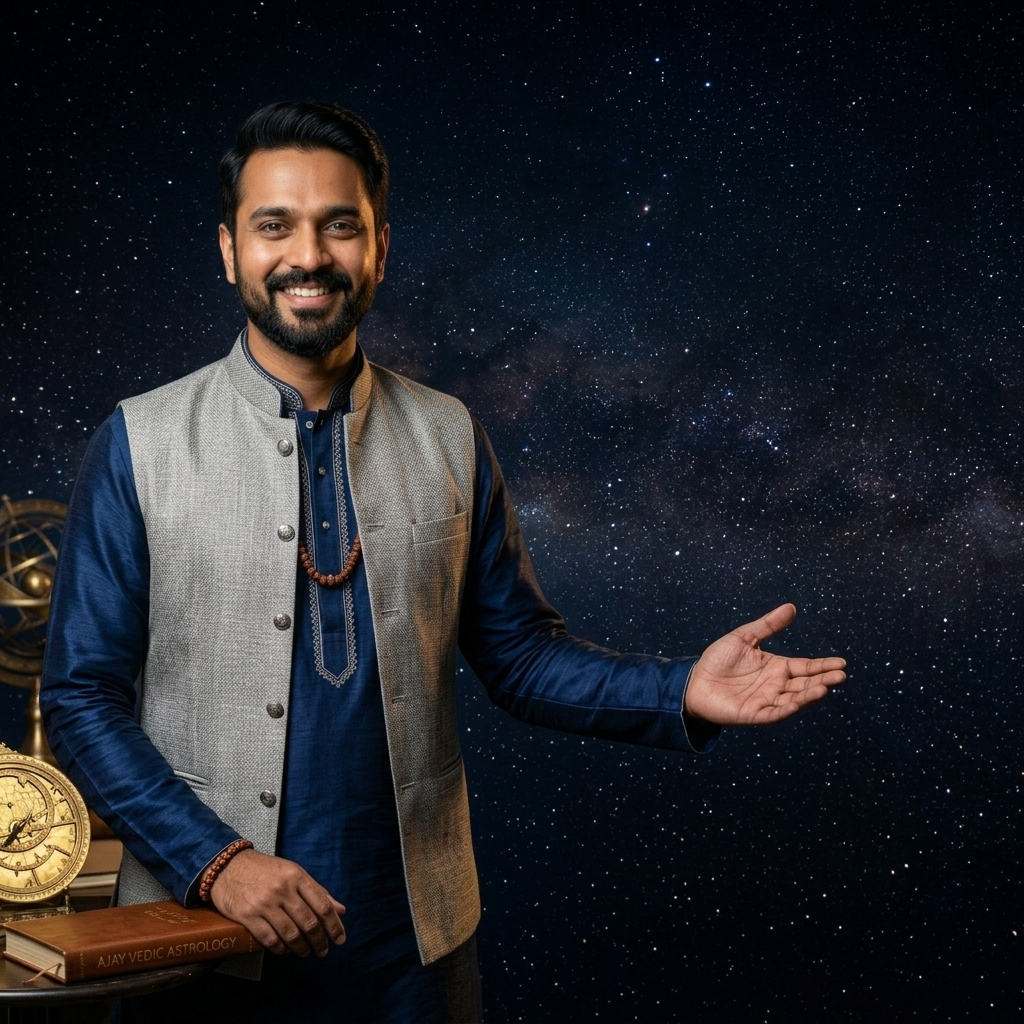
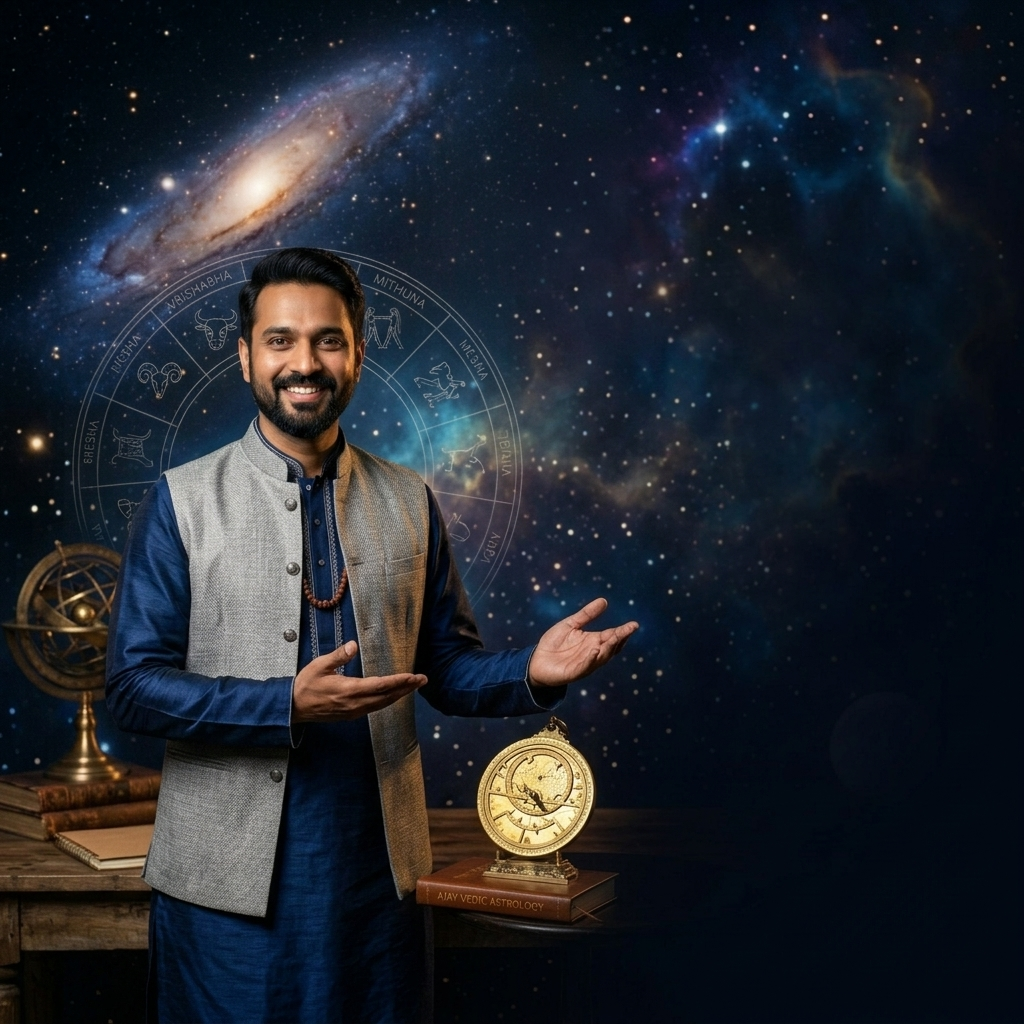
Refine hybrid splash UI: fix images to medium shots, align and style text, hide scrollbar

diff --git a/index.html b/index.html
@@ -429,11 +429,9 @@
                         <div class="slider-image-box">
                             <img src="assets/priya_banner.png" alt="Dr Priya">
                             <div class="slider-overlay-text">
-                                <h2 class="slide-in-text">क्या प्रमोशन रुका हुआ है?</h2>
+                                <h2 class="slide-in-text glow-gold">क्या प्रमोशन रुका हुआ है?</h2>
+                                <span style="color: white; font-weight: 700; font-size: 17px; margin-top: 5px; text-shadow: 0 2px 8px rgba(0,0,0,0.8);">मिलेगी नई राह! 🚀</span>
                             </div>
-                        </div>
-                        <div class="hanging-cta theme-priya" style="cursor: default; padding-right: 24px; justify-content: center; bottom: 25px;">
-                            <span class="cta-text" style="font-size: 18px;">मिलेगी नई राह! 🚀</span>
                         </div>
                     </div>
                     <!-- Card 2: Ajay -->
@@ -441,11 +439,9 @@
                         <div class="slider-image-box">
                             <img src="assets/ajay_banner.png" alt="Dr Ajay">
                             <div class="slider-overlay-text">
-                                <h2 class="slide-in-text">व्यापार में घाटा क्यों?</h2>
+                                <h2 class="slide-in-text glow-gold">व्यापार में घाटा क्यों?</h2>
+                                <span style="color: white; font-weight: 700; font-size: 17px; margin-top: 5px; text-shadow: 0 2px 8px rgba(0,0,0,0.8);">चमकेगी किस्मत की दुकान 💰</span>
                             </div>
-                        </div>
-                        <div class="hanging-cta theme-ajay" style="cursor: default; padding-right: 24px; justify-content: center; bottom: 25px;">
-                            <span class="cta-text" style="font-size: 18px;">चमकेगी किस्मत की दुकान 💰</span>
                         </div>
                     </div>
                     <!-- Card 3: Kirti -->
@@ -453,11 +449,9 @@
                         <div class="slider-image-box">
                             <img src="assets/kirti_banner.png" alt="Dr Kirti">
                             <div class="slider-overlay-text">
-                                <h2 class="slide-in-text">सच्चा प्यार कब मिलेगा?</h2>
+                                <h2 class="slide-in-text glow-gold">सच्चा प्यार कब मिलेगा?</h2>
+                                <span style="color: white; font-weight: 700; font-size: 17px; margin-top: 5px; text-shadow: 0 2px 8px rgba(0,0,0,0.8);">मिलेगा जीवनसाथी ❤</span>
                             </div>
-                        </div>
-                        <div class="hanging-cta theme-kirti" style="cursor: default; padding-right: 24px; justify-content: center; bottom: 25px;">
-                            <span class="cta-text" style="font-size: 18px;">मिलेगा जीवनसाथी ❤</span>
                         </div>
                     </div>
                 </div>
@@ -473,7 +467,7 @@
             <div class="hybrid-listing-section">
                 <div class="hybrid-listing-header" style="text-align: center;">
                     <h1>अपना ज्योतिषी चुनें</h1>
-                    <p style="color: #FFD700; font-size: 14px; text-align: center; margin: 0 0 16px 0; font-weight: 500;">करियर, प्रेम या धन... अपने हर सवाल का सटीक जवाब पाएं।</p>
+                    <p class="glow-gold" style="font-size: 17px; text-align: center; margin: 0 0 20px 0; font-weight: 600;">करियर, प्रेम या धन... अपने हर सवाल का सटीक जवाब पाएं।</p>
                     <h2><i class="fa-regular fa-clock"></i> शेष समय: 05:00</h2>
                 </div>
 

diff --git a/styles.css b/styles.css
@@ -1811,15 +1811,23 @@ body { background-color: var(--bg-light); color: var(--text-dark); transition: a
     right: 0;
     top: 50%;
     transform: translateY(-50%);
-    text-align: right;
-    padding-right: 20px;
+    text-align: center;
+    padding-right: 10px;
     background: none;
     box-shadow: none;
+    display: flex;
+    flex-direction: column;
+    align-items: center;
+    justify-content: center;
+    gap: 8px;
 }
 .hybrid-slider-container .slide-in-text {
-    font-size: 22px;
+    font-size: 20px;
     line-height: 1.3;
-    text-shadow: 0 2px 10px rgba(0,0,0,0.9);
+}
+.glow-gold {
+    color: #FDE047;
+    text-shadow: 0 0 12px rgba(253,224,71,0.6), 0 2px 10px rgba(0,0,0,0.9);
 }
 .hybrid-listing-section {
     flex: 1;
@@ -1830,6 +1838,11 @@ body { background-color: var(--bg-light); color: var(--text-dark); transition: a
     position: relative;
     padding: 24px 16px 100px;
     overflow-y: auto;
+    -ms-overflow-style: none;  /* IE and Edge */
+    scrollbar-width: none;  /* Firefox */
+}
+.hybrid-listing-section::-webkit-scrollbar {
+    display: none;
 }
 .hybrid-listing-header {
     margin-bottom: 20px;
